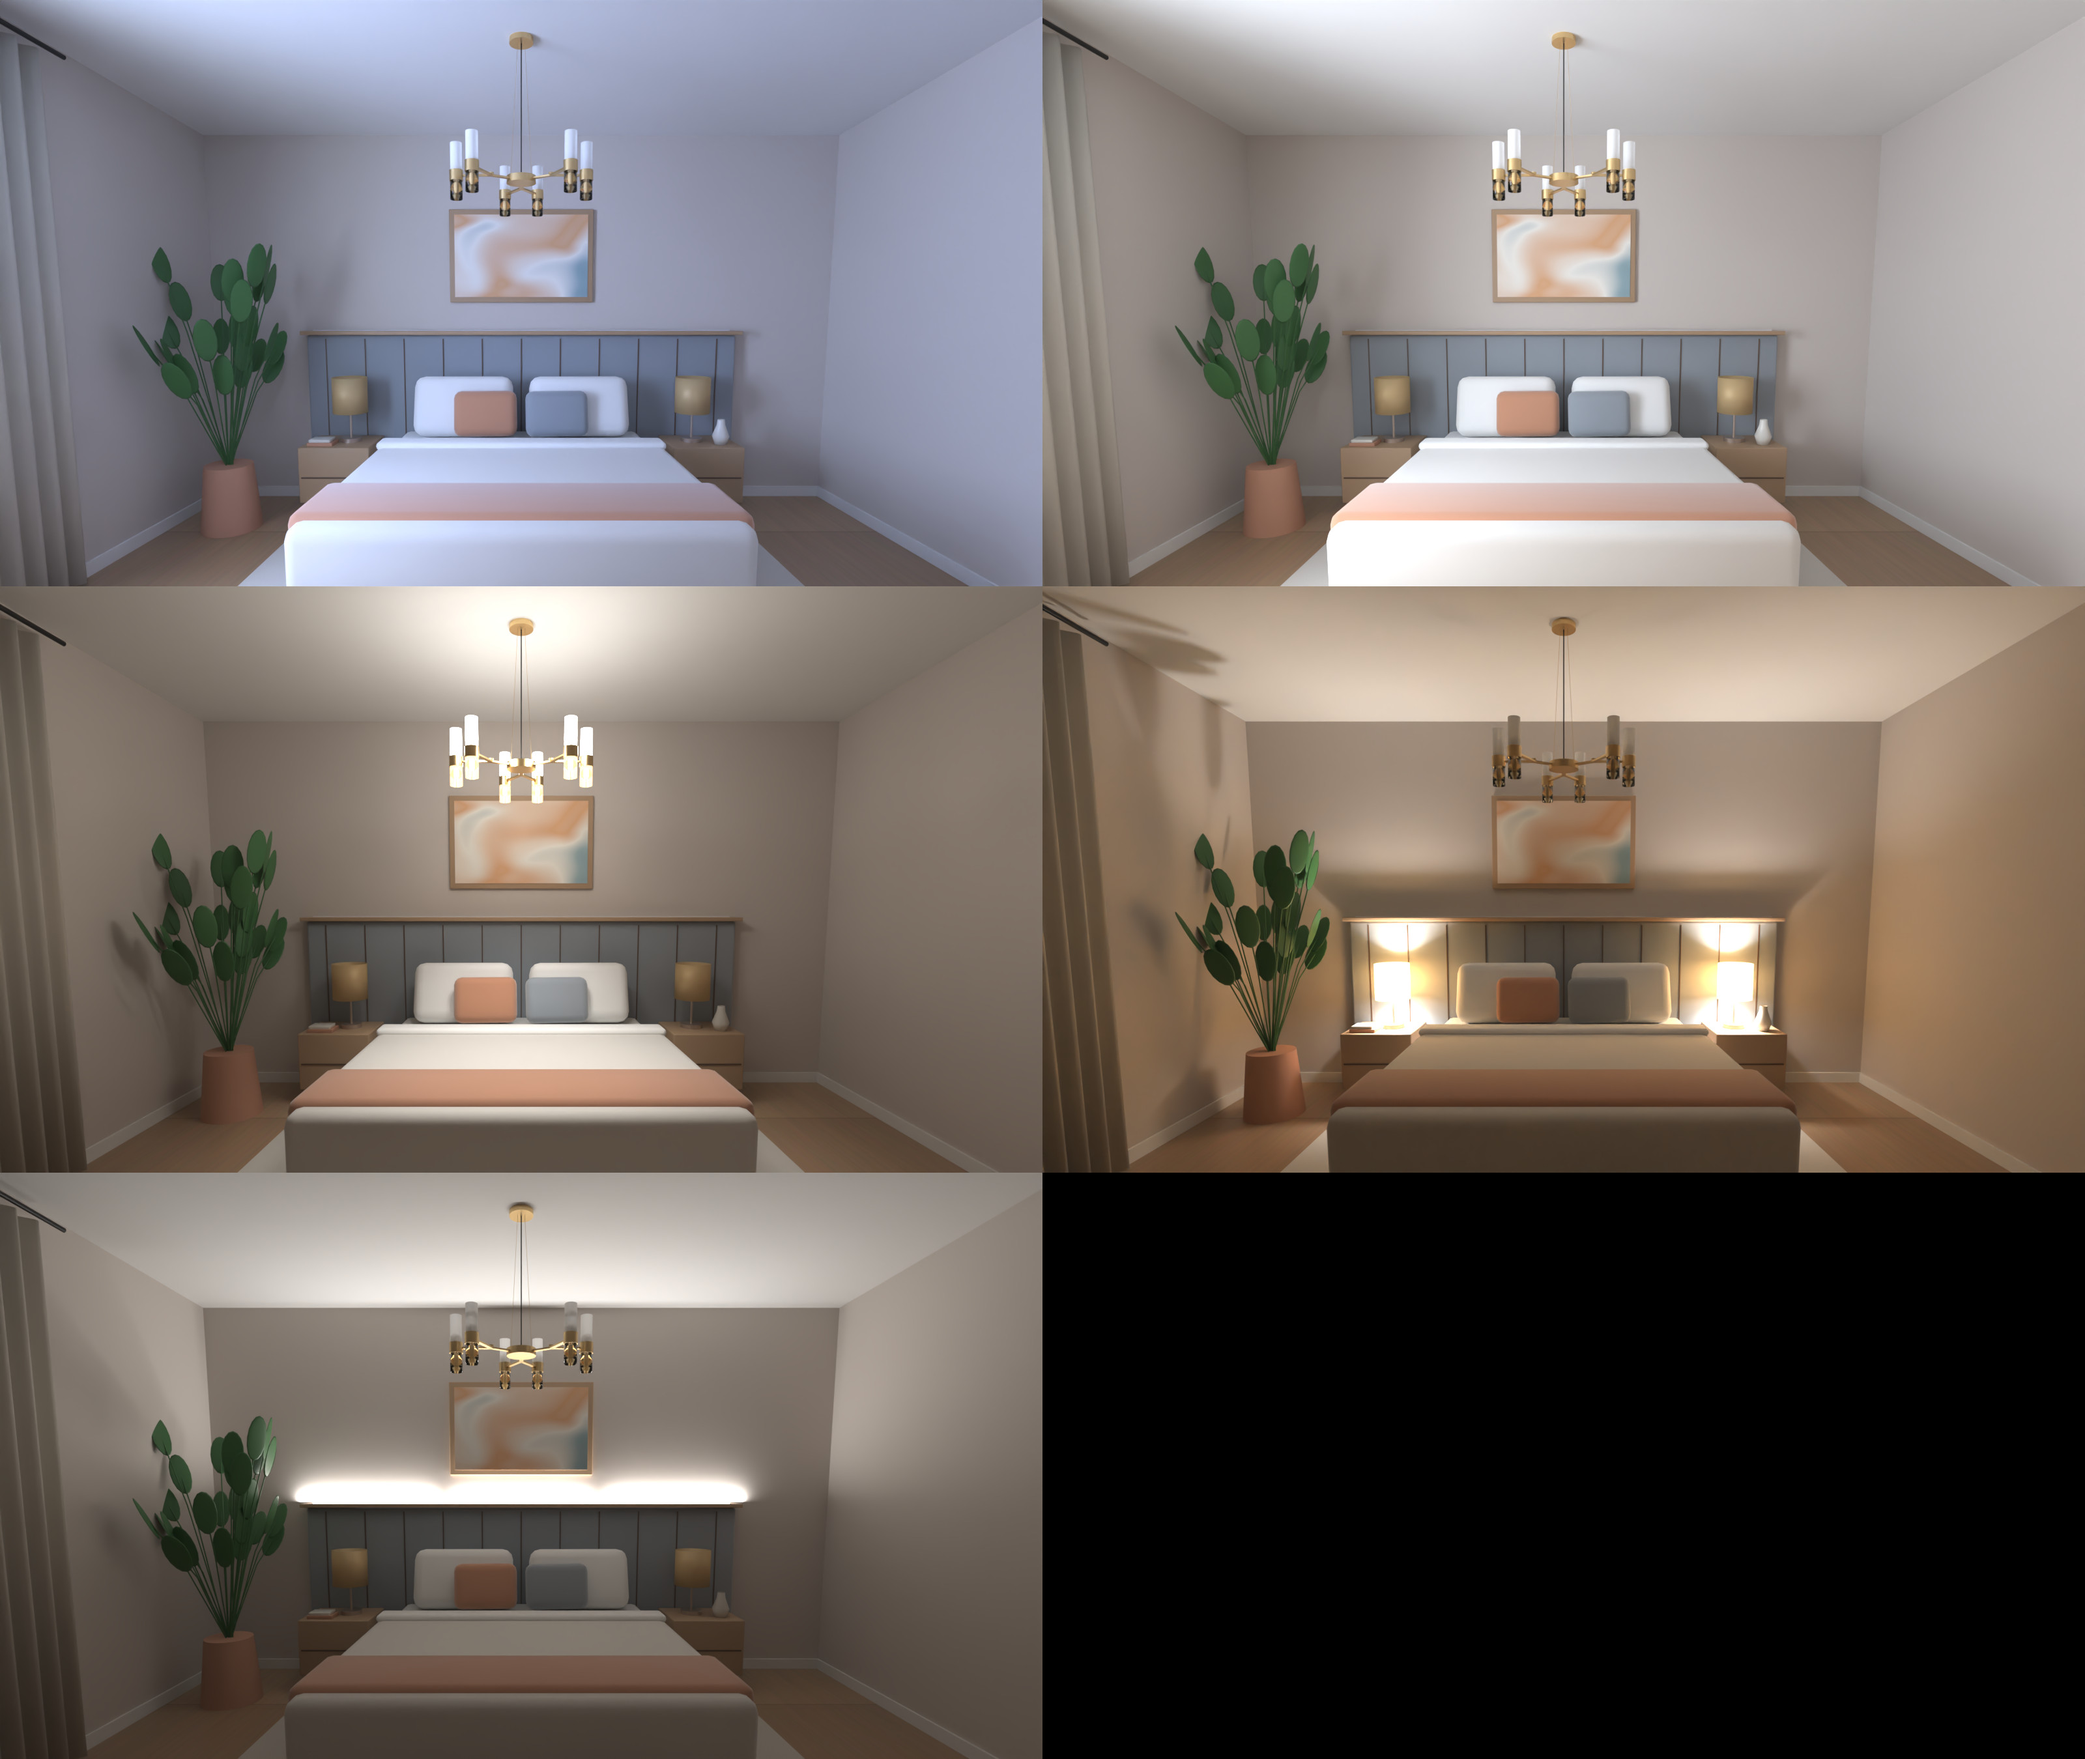
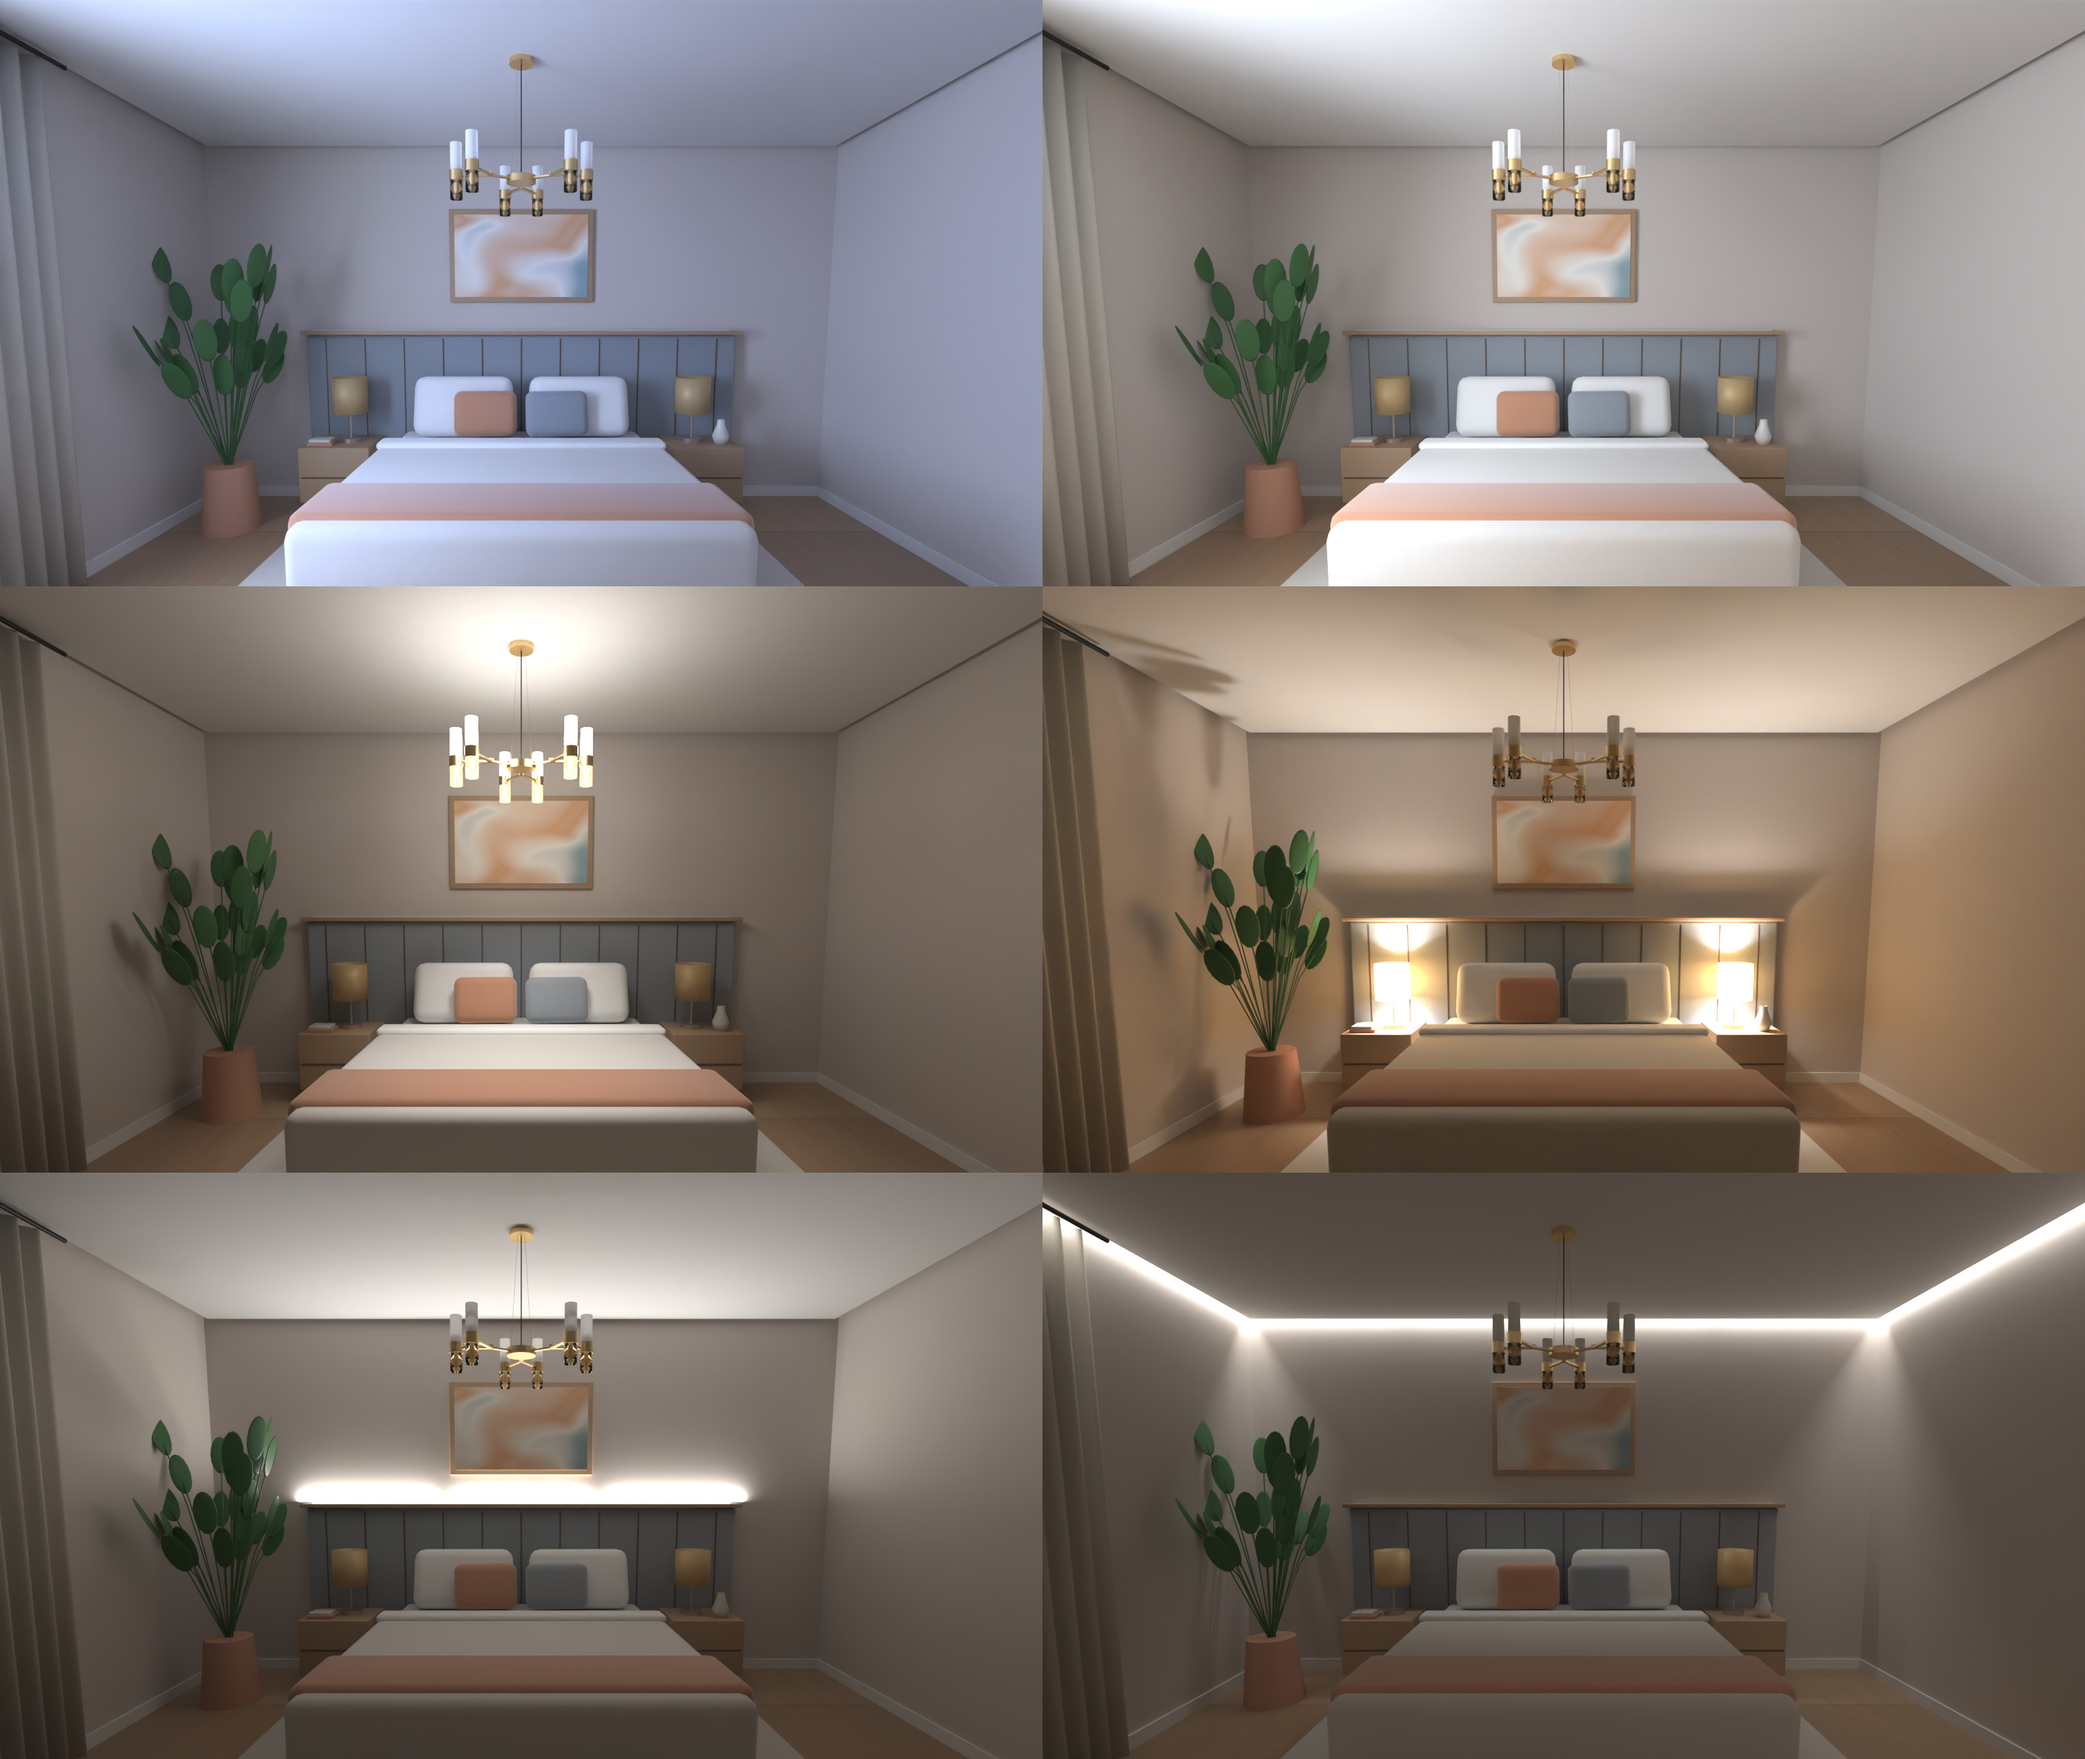
Кабинет: лампа Narices у рабочего места, центральный спот на картину мягким широким лучом; спальня: парящий потолок (Geniled 03464)

diff --git a/rooms/rooms.js b/rooms/rooms.js
@@ -60,20 +60,21 @@ const ROOMS = {
   },
   bedroom: {
     title:'Спальня', dir:BASE+'bedroom/',
-    note:'Люстра Ambrella LH55114, настольные лампы EGLO Viserbella и LED-подсветка изголовья. Всё есть в каталоге.',
+    note:'Люстра Ambrella LH55114, настольные лампы EGLO Viserbella, LED-подсветка изголовья и «парящий» потолок с лентой Geniled. Всё есть в каталоге.',
     lights:[
       {id:'pend',  name:'Люстра Ambrella LH55114',   prod:'Латунь, янтарное стекло, 6×E14 · 26 600 сом', hs:[[.5,.30]]},
       {id:'table', name:'Лампы EGLO Viserbella, пара', prod:'Золотой абажур · 6 200 сом', hs:[[.3357,.66],[.6643,.66]]},
       {id:'cove',  name:'Подсветка изголовья',       prod:'LED-лента, мягкий отражённый свет', hs:[[.5,.555]]},
+      {id:'float', name:'Парящий потолок',           prod:'Профиль для ГКЛ 0,9 с лентой (парящий) 3000 мм + лента Geniled 03464', hs:[[.2724,.2364],[.8521,.1863]]},
     ],
     scenes:[
-      {name:'Вечер',      k:2700, v:{table:.7, cove:.8, pend:.3}},
+      {name:'Вечер',      k:2700, v:{table:.7, cove:.8, pend:.3, float:.5}},
       {name:'Перед сном', k:2700, v:{table:.35, cove:.4}},
       {name:'Чтение',     k:3000, v:{table:1, cove:.3}},
-      {name:'Утро',       k:4000, v:{pend:1, cove:.5}},
-      {name:'Уборка',     k:5000, v:{pend:1, table:1, cove:1}},
+      {name:'Утро',       k:4000, v:{pend:1, cove:.5, float:.6}},
+      {name:'Уборка',     k:5000, v:{pend:1, table:1, cove:1, float:1}},
     ],
-    gain:{day:1.5},
+    gain:{day:1.5, float:.45},
   },
   bath: {
     title:'Ванная', dir:BASE+'bath/',
@@ -96,9 +97,9 @@ const ROOMS = {
     title:'Кабинет', dir:BASE+'office/',
     note:'Настольная лампа EGLO Narices, магнитная система LUMINAIR и LED-подсветка полок стеллажа. Всё есть в каталоге.',
     lights:[
-      {id:'table',  name:'Лампа EGLO Narices',      prod:'Латунный конус, E27 · 8 500 сом', hs:[[.352,.61]]},
-      {id:'linear', name:'Линейные модули ×2', prod:'LUMINAIR 24 Вт · 2 200 сом', hs:[[.3869,.0689],[.632,.0689]]},
-      {id:'spots',  name:'Трековые споты ×3',       prod:'LUMINAIR 15 Вт · 1 800 сом', hs:[[.2644,.1404],[.5128,.1399],[.7702,.1376]]},
+      {id:'table',  name:'Лампа EGLO Narices',      prod:'Латунный конус, E27 · 8 500 сом', hs:[[.5988,.64]]},
+      {id:'linear', name:'Линейные модули ×2', prod:'LUMINAIR 24 Вт · 2 200 сом', hs:[[.3869,.0689],[.6131,.0689]]},
+      {id:'spots',  name:'Трековые споты ×3',       prod:'LUMINAIR 15 Вт · 1 800 сом', hs:[[.2644,.1404],[.5226,.1269],[.7182,.1406]]},
       {id:'shelf',  name:'Подсветка стеллажа',      prod:'LED-лента в профиле под полками', hs:[[.4567,.2962],[.6833,.5256]]},
     ],
     scenes:[
